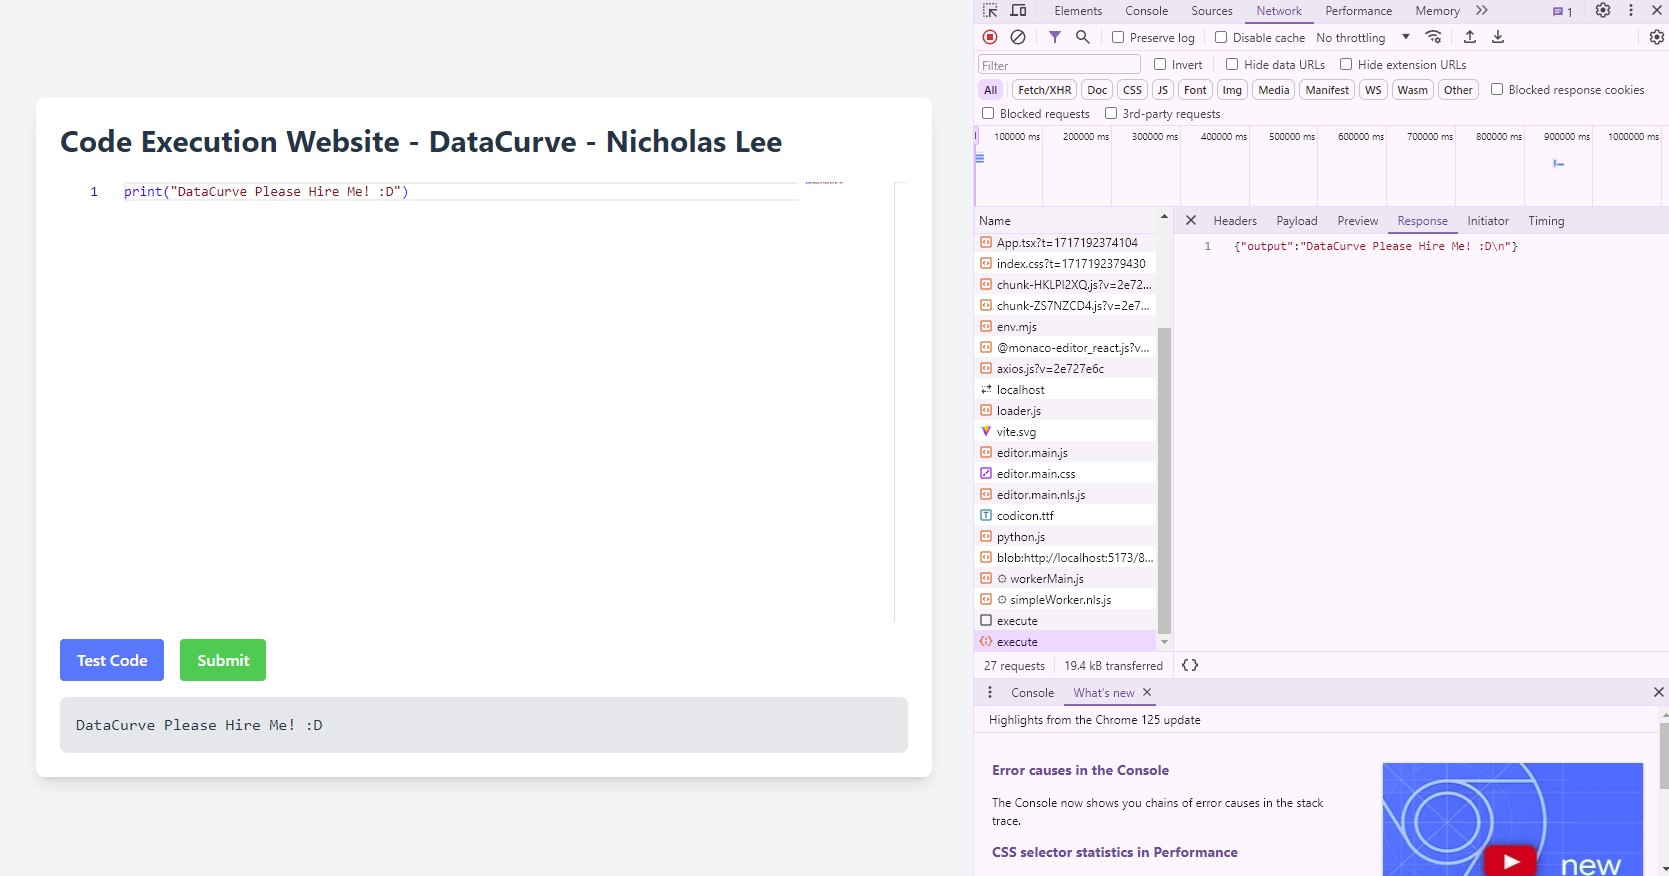
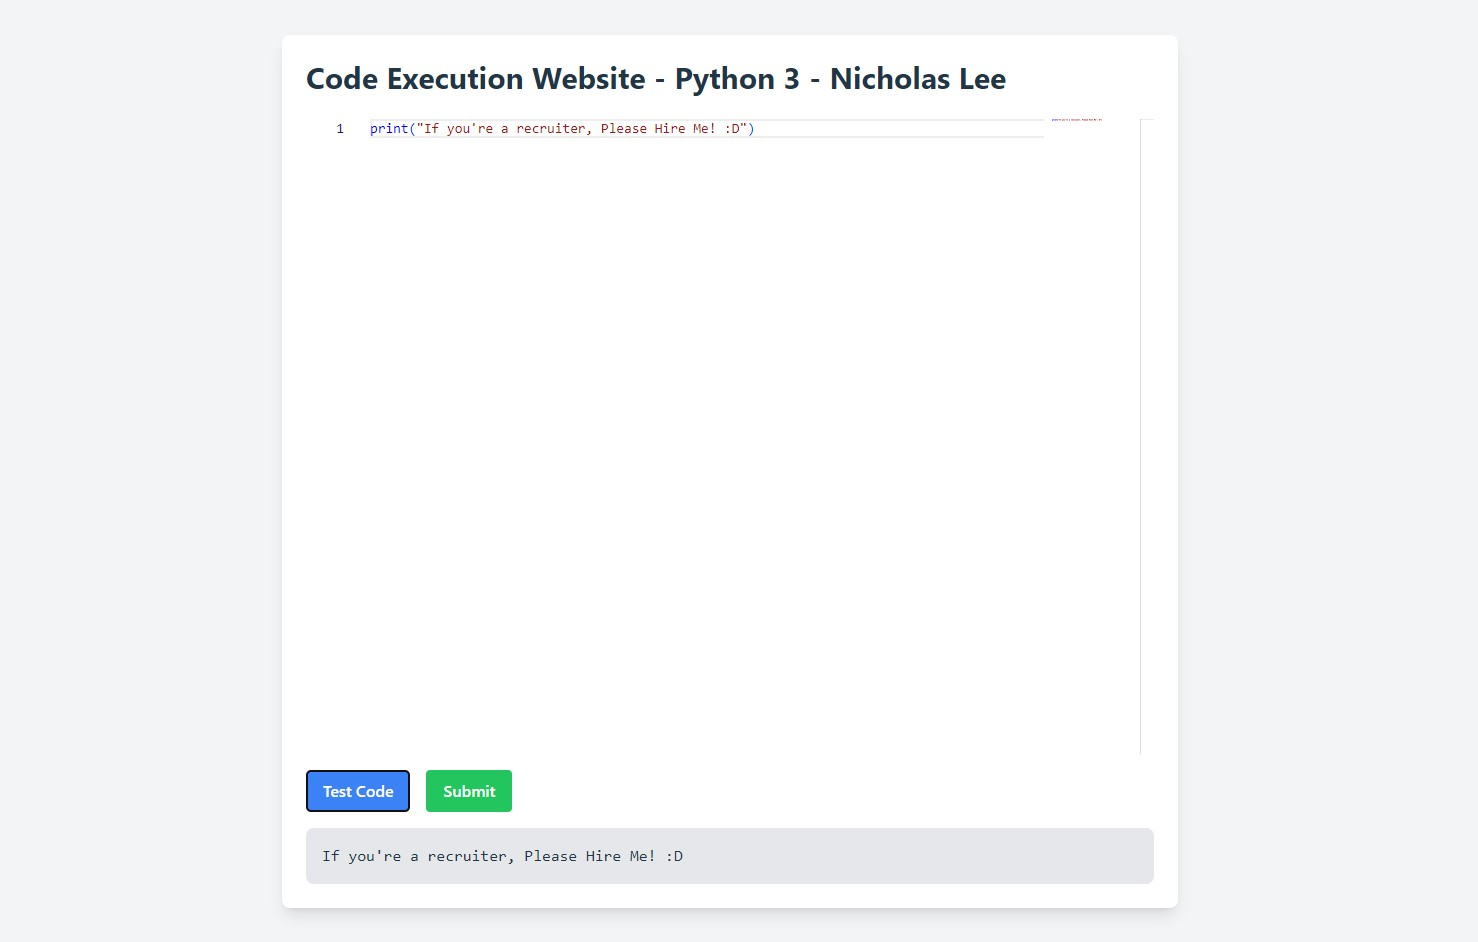
Minor Update to README

diff --git a/my-code-execution-app/src/App.tsx b/my-code-execution-app/src/App.tsx
@@ -3,7 +3,7 @@ import Editor from '@monaco-editor/react';
 import axios from 'axios';
 
 const App: React.FC = () => {
-  const [code, setCode] = useState('print("DataCurve Please Hire Me! :D")');
+  const [code, setCode] = useState('print("If you\'re a recruiter, Please Hire Me! :D")');
   const [output, setOutput] = useState('');
 
   const handleTestCode = async () => {
@@ -29,7 +29,7 @@ const App: React.FC = () => {
   return (
     <div className="min-h-screen bg-gray-100 flex items-center justify-center p-4">
       <div className="w-full max-w-4xl bg-white shadow-lg rounded-lg p-6">
-        <h1 className="text-3xl font-bold mb-6">Code Execution Website - DataCurve - Nicholas Lee</h1>
+        <h1 className="text-3xl font-bold mb-6">Code Execution Website - Python 3 - Nicholas Lee</h1>
         <div className="mb-4">
           <Editor
             height="50vh"

diff --git a/README.md b/README.md
@@ -1,6 +1,4 @@
-Hello DataCurve recruiter,
-
-Here is how to setup your local machine to run my submission:
+Hello! Here is how to setup your local machine to run this Python 3 code executor:
 
 Start the backend:
 - Clone this repo
@@ -14,4 +12,4 @@ Start the frontend:
 - cd my-code-execution-app
 - npm run dev
 
-If anything goes wrong, please feel free to contact me. I also attached a picture of the working website in this repo named "Project Demo".
+If anything goes wrong, I also attached a picture of the working website in this repo named "Project Demo".
